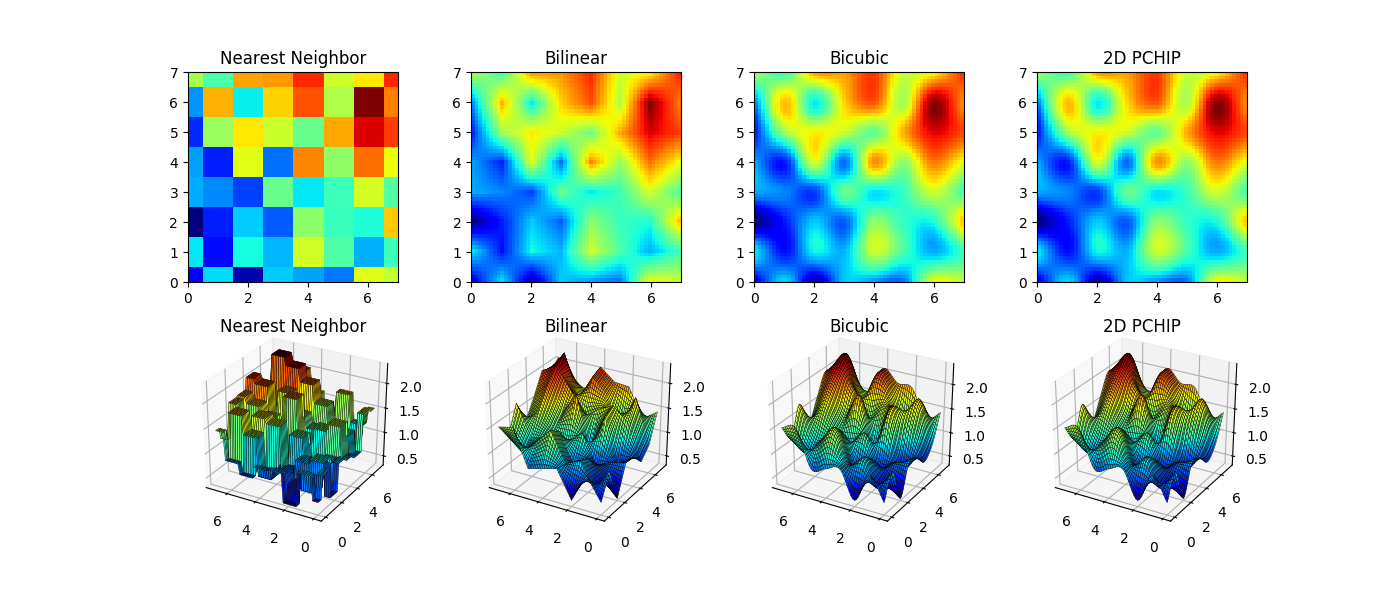
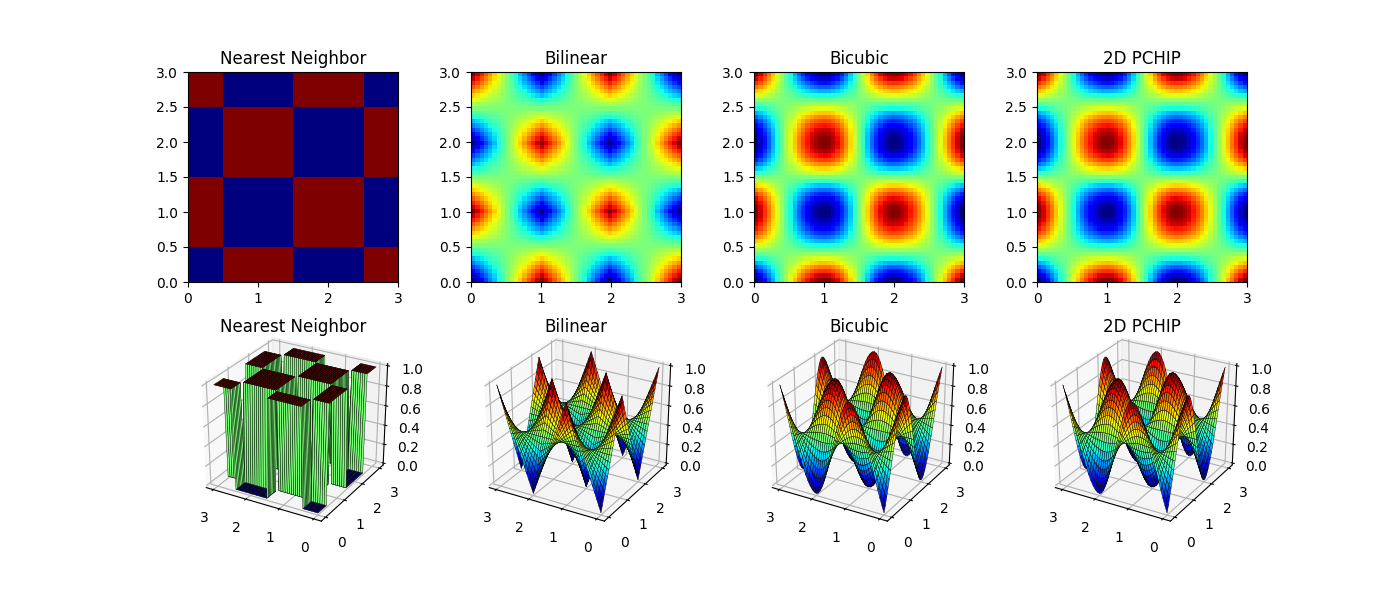
Update readme

diff --git a/src/main.py b/src/main.py
@@ -13,20 +13,24 @@ if __name__ == "__main__":
     imx, imy = 8, 8
     color_map = "jet"
     scale = 8
-    # rand_mat = np.random.random((imx, imy))
-    rand_mat = np.random.random((imx, imy)) + np.concatenate([np.expand_dims(np.linspace(i, 0.8 + i, imx), axis=1) for i in np.linspace(0, 0.8, imy)], axis=1)
-    print(rand_mat)
+    rand_mat = np.random.random((imx, imy))
+    rand_mat_slope = np.random.random((imx, imy)) + np.concatenate([np.expand_dims(np.linspace(i, 0.8 + i, imx), axis=1) for i in np.linspace(0, 0.8, imy)], axis=1)
+    checker_board = np.array(([0,1]*(int(imx/2))+[1,0]*(int(imx/2)))*(int(imx/2))).reshape((imx,imx))
+    
+    mat = rand_mat_slope
+    print(mat)
+
     
     # fig = plt.figure()
     fig = plt.figure(figsize=(14,6))
     
     ax = fig.add_subplot(241)
-    ax.imshow(rand_mat, origin="lower", cmap=color_map) 
+    ax.imshow(mat, origin="lower", cmap=color_map) 
     ax.set_title("Nearest Neighbor")
     ax.set_xlim(0, imx-1)
     ax.set_ylim(0, imy-1)
 
-    nearest_neighbor_10 = primative_interpolation.nearest_neighbor_helper(rand_mat, scale)
+    nearest_neighbor_10 = primative_interpolation.nearest_neighbor_helper(mat, scale)
     ax = fig.add_subplot(245, projection="3d")
     X = np.linspace(0, imx-1, (imx-1) * scale + 1)
     Y = np.linspace(0, imy-1, (imy-1) * scale + 1)
@@ -38,7 +42,7 @@ if __name__ == "__main__":
 
 
     # Bilinear
-    bilinear_10 = primative_interpolation.bilinear_helper(rand_mat, scale)
+    bilinear_10 = primative_interpolation.bilinear_helper(mat, scale)
 
     ax = fig.add_subplot(242)
     ax.set_title("Bilinear")
@@ -54,7 +58,7 @@ if __name__ == "__main__":
     ax.set_title('Bilinear')
 
     # Bicubic Spline
-    bicubic_10 = bicubic_spline.bicubic_spline_helper(rand_mat, scale)
+    bicubic_10 = bicubic_spline.bicubic_spline_helper(mat, scale)
 
     ax = fig.add_subplot(243)
     ax.set_title("Bicubic")
@@ -71,7 +75,7 @@ if __name__ == "__main__":
 
 
     # 2d pchip Spline
-    pchip_2d = piecewise_cubic_hermite_spline.pchip_base_helper(rand_mat, scale)
+    pchip_2d = piecewise_cubic_hermite_spline.pchip_base_helper(mat, scale)
     ax = fig.add_subplot(244)
     ax.set_title("2D PCHIP")
     ax.imshow(pchip_2d, origin="lower", cmap=color_map, extent=[0, imx-1, 0, imy-1])

diff --git a/README.md b/README.md
@@ -19,7 +19,7 @@ Finished Bicubic (19/04/04)
 Finished 1D pchip & framework to convert 1D interpolation to 2D (19/04/05)
 
 ![Image1](https://i.ibb.co/MsSK0WM/1.png)
-
+![Image2](https://i.ibb.co/WgdTgD6/2.png)
 ---
 
 ![Image2](https://upload.wikimedia.org/wikipedia/commons/9/90/Comparison_of_1D_and_2D_interpolation.svg)
